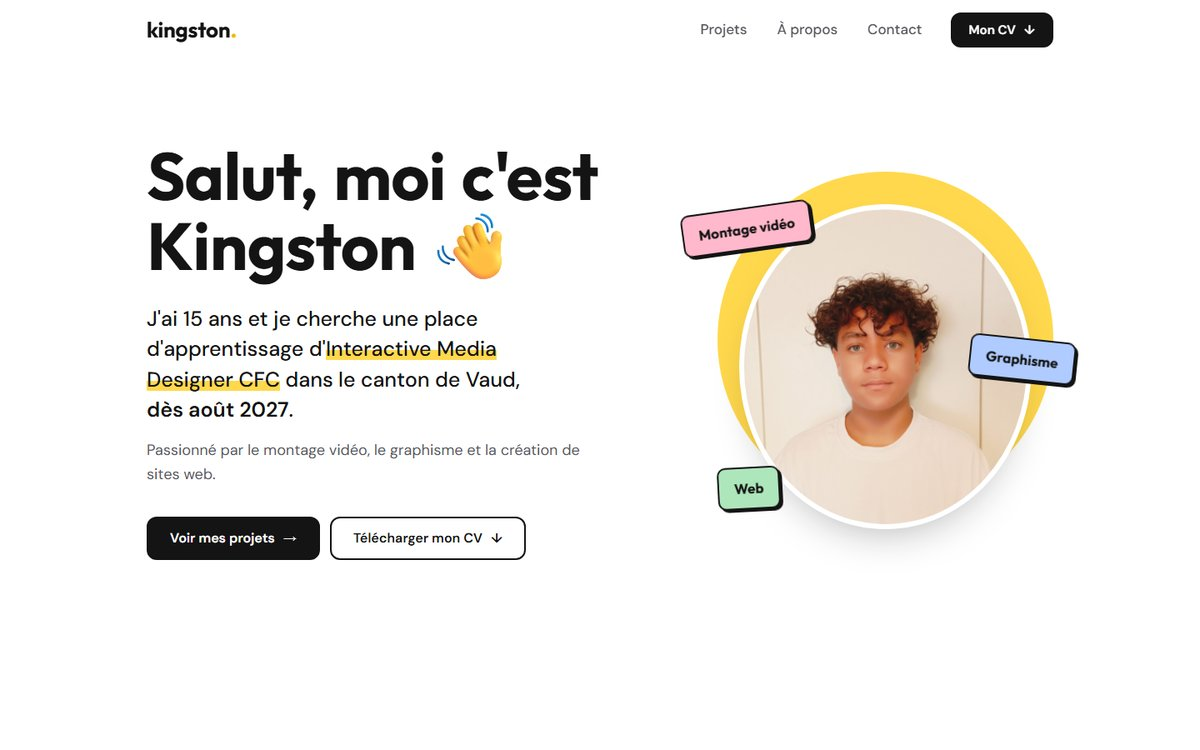
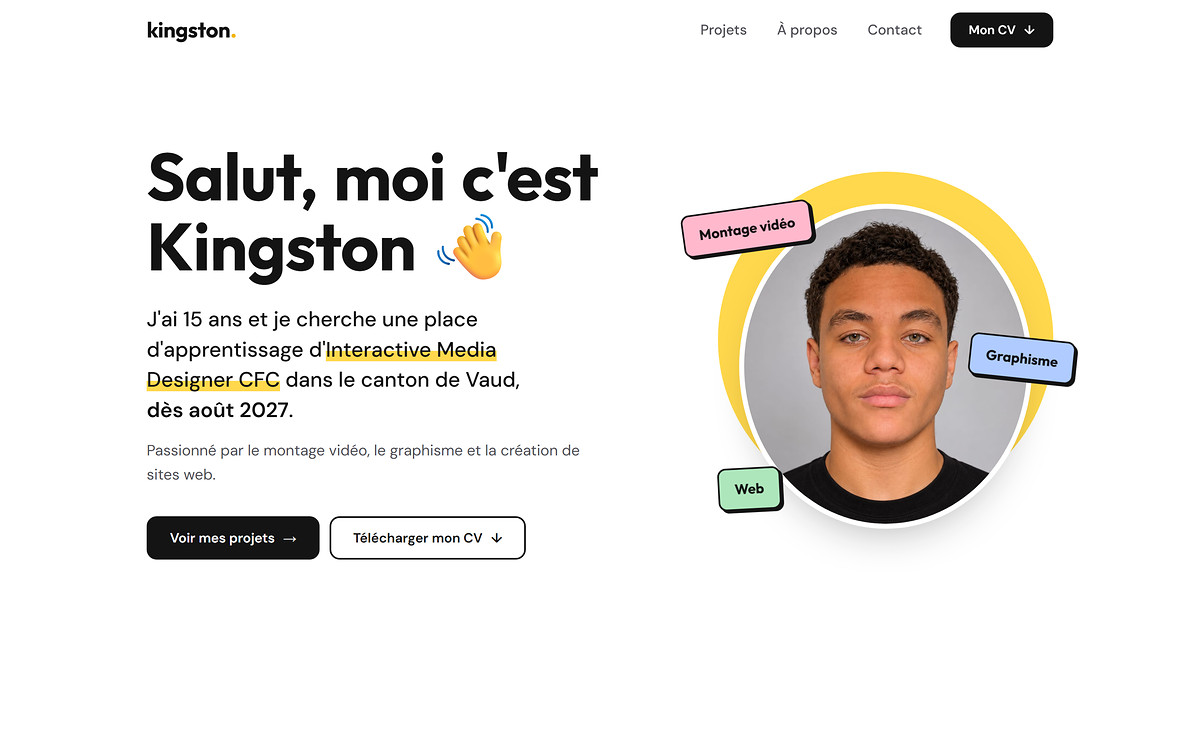
Update portrait King

diff --git a/css/style.css b/css/style.css
@@ -828,12 +828,6 @@ mark {
   border-radius: 12px;
   background: var(--white);
   box-shadow: 6px 6px 0 var(--ink);
-  rotate: 1.5deg;
-  transition: rotate 0.5s var(--ease);
-}
-
-.project-wide:hover .browser {
-  rotate: 0deg;
 }
 
 .browser-bar {
